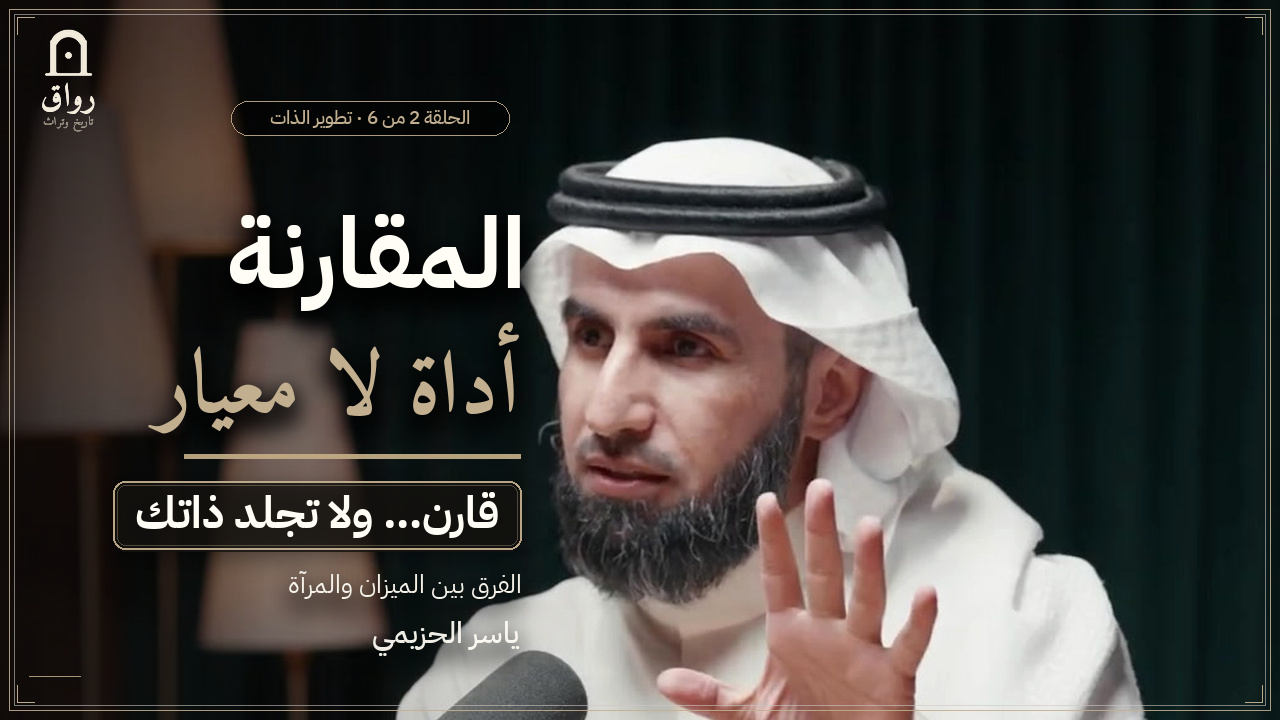
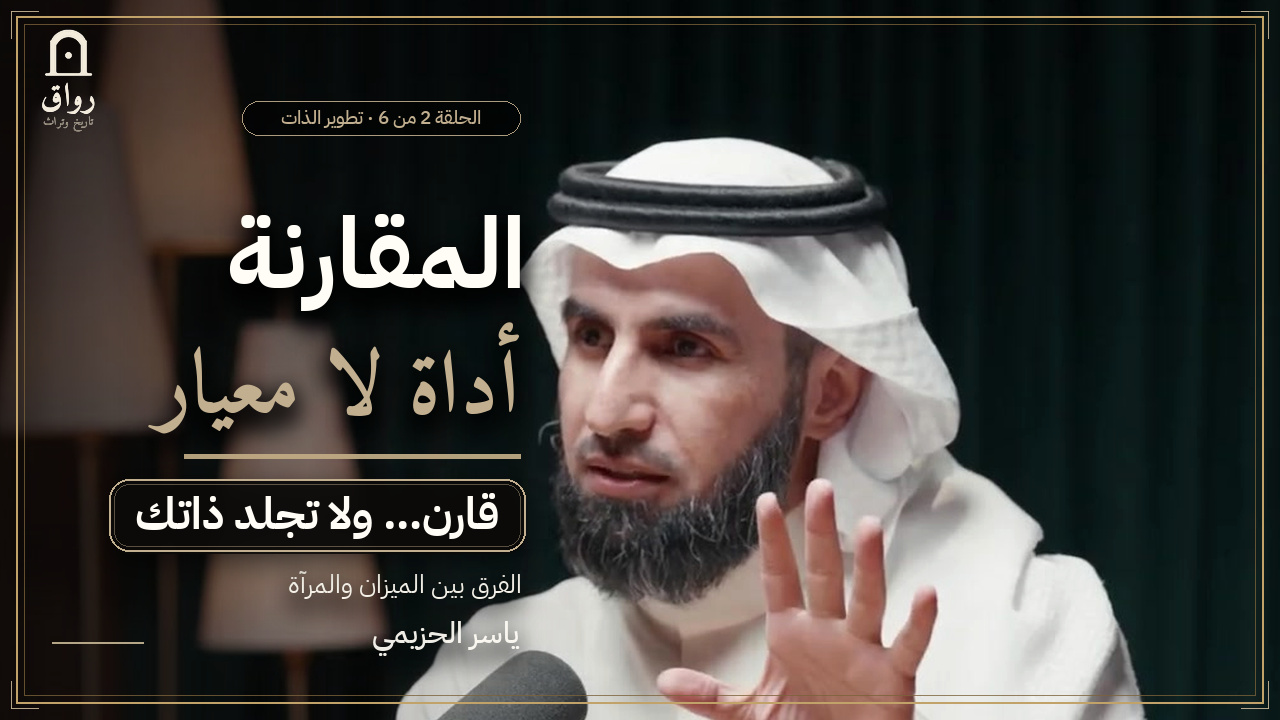
feat(frame): adopt the approved classic frame verbatim + signature rule; 3D moved to the text badge (5 layers); numbering pill aligned to text column; v2 review sheet

Changed region(s): [[0.0, 0.0, 1.0, 1.0], [0.0625, 0.6417, 0.4062, 0.7944], [0.2188, 0.1528, 0.375, 0.1833]]

diff --git a/scripts/publish/cover_system.py b/scripts/publish/cover_system.py
@@ -268,44 +268,102 @@ def series_badge(im: Image.Image, text: str, *, corner: str = "tr",
     return box
 
 
+# ---------------------------------------------------------------- الإطار القديم (المعتمد)
+# قياسات مأخوذة بالبكسل من الغلاف القديم المعتمد (1280×720):
+#   قوس الزاوية : inset 11 · ذراع 27 · 1px · #C1B193  (خارج الإطار — هذه هي لمسة القديم)
+#   الإطار      : inset 16 · 2px  · #C1A269  (ذهبي دافئ أغمق من الشامبانيا)
+#   الشعرة      : inset 24 · 1px  · #7B623A  (ذهبي باهت، وليس أبيض)
+# + خط التوقيع (الإضافة الوحيدة المطلوبة)
+CLASSIC = {
+    "bracket_inset": 11, "bracket_arm": 27, "bracket_w": 1,
+    "gold_inset": 16, "gold_w": 2, "gold": (0xC1, 0xA2, 0x69),
+    "hair_inset": 24, "hair_w": 1, "hair": (0x7B, 0x62, 0x3A),
+    "bracket": (0xC1, 0xB1, 0x93),
+    "sig_x": 52, "sig_len": 91, "sig_from_bottom": 78, "sig_w": 2,
+    "sig": (0xBF, 0xAF, 0x8F),
+}
+
+
+def frame_classic(im: Image.Image, *, signature: bool = True,
+                  scale: float | None = None) -> Image.Image:
+    """الإطار القديم المعتمد حرفيًا + خط التوقيع. لا bevel، لا أقواس داخلية."""
+    W, H = im.size
+    k = scale if scale is not None else min(W, H) / 720
+    q = lambda v: max(1, int(round(v * k)))  # noqa: E731
+    c = CLASSIC
+    d = ImageDraw.Draw(im, "RGBA")
+
+    def rect(inset, width, colour, alpha=255):
+        d.rectangle([inset, inset, W - 1 - inset, H - 1 - inset],
+                    outline=colour + (alpha,), width=width)
+
+    # 1) أقواس الزوايا — رفيعة وخارج الإطار (سمة الإطار القديم)
+    bi, arm, bw = q(c["bracket_inset"]), q(c["bracket_arm"]), c["bracket_w"]
+    for (cx, cy, sx, sy) in ((bi, bi, 1, 1), (W - 1 - bi, bi, -1, 1),
+                             (bi, H - 1 - bi, 1, -1), (W - 1 - bi, H - 1 - bi, -1, -1)):
+        d.line([(cx, cy), (cx + sx * arm, cy)], fill=c["bracket"] + (235,), width=bw)
+        d.line([(cx, cy), (cx, cy + sy * arm)], fill=c["bracket"] + (235,), width=bw)
+
+    # 2) الإطار الذهبي الدافئ
+    rect(q(c["gold_inset"]), c["gold_w"], c["gold"], 255)
+
+    # 3) الشعرة الذهبية الباهتة
+    rect(q(c["hair_inset"]), c["hair_w"], c["hair"], 200)
+
+    # 4) خط التوقيع — أسفل-يسار فقط
+    if signature:
+        sx, sy = q(c["sig_x"]), H - q(c["sig_from_bottom"])
+        d.line([(sx, sy), (sx + q(c["sig_len"]), sy)],
+               fill=c["sig"] + (240,), width=c["sig_w"])
+    return im
+
+
 # ---------------------------------------------------------------- الشارة 3D
 def badge3d(im: Image.Image, text: str, centre: tuple[int, int], *,
-            px: int | None = None, pad_x: int = 22, pad_y: int = 12,
-            radius: int = 12) -> tuple[int, int, int, int]:
-    """شارة مستطيلة «ثلاثية الأبعاد»: قاعدة داكنة مُزاحة + إطار ذهبي + ظل ناعم.
+            px: int | None = None, pad_x: int = 26, pad_y: int = 14,
+            radius: int | None = None) -> tuple[int, int, int, int]:
+    """شارة النص الثلاثية الأبعاد — «المستوى الثالث» في سلّم الطباعة.
 
-    الظل على طبقة منفصلة ⇒ لا يلمس الوجه. تُعيد الـbox للاستخدام كمرجع.
+    طبقاتها (من أسفل لأعلى):
+      1) ظل ناعم واسع خارجها        → يفصلها عن الصورة
+      2) قاعدة داكنة مُزاحة 2px      → سُمك مرئي
+      3) حدّ ذهبي خارجي 2px
+      4) حدّ ذهبي داخلي 1px @+5px    → «الذهبي ظاهر فوق وتحت»
+      5) النص الأبيض
+    الزوايا دائرية بنسبة ~45% من الارتفاع (لا حادّة).
     """
     px = px or LADDER.badge
     fnt = font("sans_b", px)
-    s = G.ar(text)
-    tw = G.text_w(fnt, s)          # القياس على النص المُشكَّل — وإلا كانت الشارة أوسع
-    th = px
-    w, h = tw + pad_x * 2, th + pad_y * 2
+    s_txt = G.ar(text)
+    tw = G.text_w(fnt, s_txt)
+    h = px + pad_y * 2
+    w = tw + pad_x * 2
+    r = radius if radius is not None else max(10, int(h * 0.28))
     cx, cy = centre
     box = (cx - w // 2, cy - h // 2, cx + w // 2, cy + h // 2)
 
-    # ظل ناعم
-    sh = Image.new("RGBA", im.size, (0, 0, 0, 0))
+    # 1) ظل ناعم واسع — يُركّب كطبقة قناع (يعمل مع RGB و RGBA)
+    sh = Image.new("L", im.size, 0)
     ImageDraw.Draw(sh).rounded_rectangle(
-        [box[0], box[1] + 6, box[2], box[3] + 6], radius=radius,
-        fill=(0, 0, 0, 115))
-    im.alpha_composite(sh.filter(ImageFilter.GaussianBlur(12))) if im.mode == "RGBA" \
-        else im.paste(Image.new("RGB", im.size, (0, 0, 0)), (0, 0),
-                      sh.filter(ImageFilter.GaussianBlur(12)).split()[-1])
+        [box[0] + 1, box[1] + 8, box[2] + 1, box[3] + 9], radius=r, fill=150)
+    sh = sh.filter(ImageFilter.GaussianBlur(14))
+    im.paste(Image.new("RGB", im.size, (0, 0, 0)), (0, 0), sh)
 
+    # 2) القاعدة الداكنة مُزاحة للأسفل = سُمك 2px
     d = ImageDraw.Draw(im, "RGBA")
-    # طبقة القاعدة (أسود مُزاح 2.5px للأسفل)
     d.rounded_rectangle([box[0], box[1] + 2, box[2], box[3] + 2],
-                        radius=radius, fill=COLORS["ink"] + (205,))
-    # الوجه الذهبي فوقها
-    d.rounded_rectangle(box, radius=radius, outline=COLORS["champagne"] + (240,),
-                        width=2)
-    d.rounded_rectangle([box[0] + 4, box[1] + 4, box[2] - 4, box[3] - 4],
-                        radius=max(2, radius - 4), outline=COLORS["champagne"] + (90,),
-                        width=1)
-    # النص — يُرفع قليلًا حتى لا تلمس النقاط (ي) الحدّ السفلي
-    d.text((cx, cy - int(px * 0.06)), s, font=fnt,
+                        radius=r, fill=(10, 9, 8, 215))
+    # 3) الوجه الداخلي
+    d.rounded_rectangle(box, radius=r, fill=(12, 11, 9, 140))
+    # 4) الحدّ الذهبي الخارجي
+    d.rounded_rectangle(box, radius=r, outline=COLORS["champagne"] + (255,), width=2)
+    # 5) الحدّ الذهبي الداخلي (يظهر فوق وتحت)
+    inset = 5
+    d.rounded_rectangle([box[0] + inset, box[1] + inset, box[2] - inset, box[3] - inset],
+                        radius=max(2, r - inset),
+                        outline=COLORS["champagne"] + (110,), width=1)
+    # 6) النص — يُرفع 2% لأن النقاط العربية تنزل تحت خط الأساس
+    d.text((cx, cy - int(px * 0.03)), s_txt, font=fnt,
            fill=COLORS["white"] + (255,), anchor="mm")
     return box
 
@@ -365,12 +423,18 @@ def lockup(im: Image.Image, width: int = 92, xy: tuple[int, int] = (40, 26)) -> 
 
 
 def pill(im: Image.Image, text: str, centre: tuple[int, int], px: int = 20,
-         pad_x: int = 16, pad_y: int = 8) -> tuple[int, int, int, int]:
-    """كبسولة رقيقة (الشارة التصنيفية) — إطار شامبانيا + نص شامبانيا، بلا تعبئة."""
+         pad_x: int = 16, pad_y: int = 8, right: int | None = None
+         ) -> tuple[int, int, int, int]:
+    """كبسولة رقيقة (الشارة التصنيفية) — إطار شامبانيا + نص شامبانيا، بلا تعبئة.
+
+    right= ⇒ تُحاذى حافّتها اليمنى على هذا الإحداثي (يمنع خروجها عن عمود النص).
+    """
     fnt = font("sans_m", px)
     tw = G.text_w(fnt, text)
     w, h = tw + pad_x * 2, px + pad_y * 2
     cx, cy = centre
+    if right is not None:
+        cx = right - w // 2
     box = (cx - w // 2, cy - h // 2, cx + w // 2, cy + h // 2)
     d = ImageDraw.Draw(im, "RGBA")
     d.rounded_rectangle(box, radius=h // 2, fill=(0, 0, 0, 120),

diff --git a/scripts/publish/review_v2.py b/scripts/publish/review_v2.py
@@ -1,0 +1,127 @@
+"""ورقة مراجعة v2 — إطار القديم مع خط التوقيع + شارة النص 4× + خيارا الترقيم.
+
+    /tmp/venv/bin/python scripts/publish/review_v2.py
+الناتج: outputs/FRAME_TEST/REVIEW-v2-frame-textbadge-numbering.png
+"""
+from __future__ import annotations
+
+import sys
+from pathlib import Path
+
+sys.path.insert(0, str(Path(__file__).resolve().parent))
+
+from PIL import Image, ImageDraw
+
+import cover_system as CS
+import ep02_cover as EP
+
+REPO = Path(__file__).resolve().parents[2]
+OUT = REPO / "outputs" / "FRAME_TEST"
+OLD = REPO / "outputs" / "SERIES_RIWAQ" / "covers_v2" / "02" / "THUMB_A_1280x720.jpg"
+NEW = next((REPO / "outputs" / "PUBLISH_PACK_EP02_COVERS").glob("02-CVR-H-A-*.jpg"))
+
+BG = (16, 15, 14)
+INK = (235, 224, 202)
+SUB = (146, 134, 114)
+PAD = 26
+
+
+def crop(im: Image.Image, box, zoom: int = 4) -> Image.Image:
+    c = im.crop(box)
+    return c.resize((c.width * zoom, c.height * zoom), Image.NEAREST)
+
+
+def ar(d, xy, text, fnt, fill=SUB, anchor="la"):
+    d.text(xy, CS.G.ar(text), font=fnt, fill=fill, anchor=anchor)
+
+
+def main() -> None:
+    OUT.mkdir(parents=True, exist_ok=True)
+    old = Image.open(OLD).convert("RGB")
+    new = Image.open(NEW).convert("RGB")
+    corner_opt = new.copy()
+    CS.series_badge(corner_opt, "2 من 6", corner="tr", px=18)
+
+    f_h = CS.font("sans_b", 24)
+    f_l = CS.font("sans_m", 17)
+
+    TL = (0, 0, 118, 118)
+    other = {"أعلى-يمين": (1162, 0, 1280, 118),
+             "أسفل-يسار": (0, 602, 118, 720),
+             "أسفل-يمين": (1162, 602, 1280, 720)}
+
+    z_old = crop(old, TL)
+    z_new = crop(new, TL)
+    small = {k: crop(new, b).resize((z_new.width // 2, z_new.height // 2), Image.LANCZOS)
+             for k, b in other.items()}
+
+    # ---- صف 1: زاوية أعلى-يسار (قديم/جديد) + الزوايا الثلاثة
+    y1 = PAD
+    hdr1_h = 34
+    row1_h = hdr1_h + z_new.height + 26
+    x_old, x_new = PAD, PAD + z_new.width + PAD
+    x_small = x_new + z_new.width + PAD
+    sw = z_new.width // 2
+
+    # ---- صف 2: الشارة
+    badge = crop(new, (92, 444, 566, 578), 4)
+    notes = ["ظل ناعم واسع يفصلها عن الصورة",
+             "قاعدة داكنة مُزاحة 2px = سُّمك مرئي",
+             "حدّ ذهبي خارجي 2px",
+             "حدّ ذهبي داخلي 1px — يظهر فوق وتحت",
+             "زوايا دائرية، ليست حادّة"]
+    hdr2_h = 34
+    row2_h = hdr2_h + badge.height + 16 + len(notes) * 26
+
+    # ---- صف 3: الترقيم
+    opt_a = crop(new, (292, 92, 540, 146), 4)          # كبسولة أعلى الكتلة
+    opt_b = crop(corner_opt, (1140, 92, 1272, 146), 4)  # شارة زاوية الإطار
+    hdr3_h = 34
+    row3_h = hdr3_h + opt_a.height + 30
+
+    notes_w = max(CS.G.text_w(f_l, CS.G.ar("•  " + n)) for n in notes)
+    W = max(x_small + 3 * (sw + PAD) + PAD,
+            PAD + badge.width + PAD + notes_w + PAD,
+            PAD + opt_a.width + PAD + opt_b.width + PAD) + PAD
+    H = PAD + row1_h + PAD + row2_h + PAD + row3_h + PAD
+    canvas = Image.new("RGB", (W, H), BG)
+    d = ImageDraw.Draw(canvas)
+
+    # ===== صف 1
+    y = y1
+    ar(d, (PAD, y), "١) الإطار: القديم (يسار) مقابل المعتمد الجديد (يمين) — زاوية أعلى-يسار، تكبير ٤×", f_h, INK)
+    y += hdr1_h
+    canvas.paste(z_old, (x_old, y))
+    canvas.paste(z_new, (x_new, y))
+    ar(d, (x_old, y + z_new.height + 5), "القديم", f_l)
+    ar(d, (x_new, y + z_new.height + 5), "الجديد = القديم + خط التوقيع", f_l)
+    for i, (name, img) in enumerate(small.items()):
+        sx = x_small + i * (sw + PAD)
+        canvas.paste(img, (sx, y))
+        ar(d, (sx, y + img.height + 4), name, f_l)
+
+    # ===== صف 2
+    y = PAD + row1_h + PAD
+    ar(d, (PAD, y), "٢) إطار النص (المستوى الثالث) — طبقات العمق — تكبير ٤×", f_h, INK)
+    y += hdr2_h
+    canvas.paste(badge, (PAD, y))
+    for i, n in enumerate(notes):
+        ar(d, (PAD + badge.width + PAD, y + 10 + i * 26), "•  " + n, f_l)
+
+    # ===== صف 3
+    y = PAD + row1_h + PAD + row2_h + PAD
+    ar(d, (PAD, y), "٣) الترقيم — أي الخيارين؟ (تكبير ٤×)", f_h, INK)
+    y += hdr3_h
+    canvas.paste(opt_a, (PAD, y))
+    ar(d, (PAD, y + opt_a.height + 6), "أ) كبسولة أعلى الكتلة النصية", f_l)
+    xb = PAD + opt_a.width + PAD
+    canvas.paste(opt_b, (xb, y))
+    ar(d, (xb, y + opt_b.height + 6), "ب) شارة صغيرة داخل زاوية الإطار", f_l)
+
+    out = OUT / "REVIEW-v2-frame-textbadge-numbering.png"
+    canvas.save(out)
+    print("out:", out, canvas.size)
+
+
+if __name__ == "__main__":
+    main()

diff --git a/scripts/publish/ep02_cover.py b/scripts/publish/ep02_cover.py
@@ -97,9 +97,9 @@ def build(im, pill_txt, h1, h2, badge, bridge, name, rule_len=336):
     CS.rule(im, (X_RIGHT, rule_y), length=min(rule_len, MAX_W))
     CS.badge3d(im, badge, (X_RIGHT - bd_w // 2,
                            rule_y + CS.LADDER.rule_h + g3 + bd_h // 2), px=f_bd.size)
-    CS.pill(im, pill_txt, (X_RIGHT - 150, 118), px=19)
+    CS.pill(im, pill_txt, (0, 118), px=19, right=X_RIGHT)
     CS.lockup(im, 92, (40, 26))
-    CS.frame3(im)
+    CS.frame_classic(im)      # الإطار القديم المعتمد + خط التوقيع
     return im
 
 

diff --git a/docs/COVER_SYSTEM.md b/docs/COVER_SYSTEM.md
@@ -27,6 +27,9 @@ vidIQ قال ثلاث ملاحظات على غلافنا القديم:
 | «نصف/نصف نظيف» | المقارنة أسرع طريقة لإيصال **فكرة فرق** | الـSplit **بديل** للبورتريه، **لا إضافة** عليه. لا بورتريه + Split في نفس الغلاف |
 | «Thumbnail 76» + «Package 6» | الغلاف كان **جيدًا**؛ الانهيار في الوسوم/الوصف | لا تُصلح الغلاف بسبب رقم Package. أصلح الوسوم |
 
+> **تصحيح جوهري (24 أكتوبر):** «التأثير ثلاثي الأبعاد» الذي طُلب **لا يخصّ إطار الغلاف** بل **إطار النص**
+> في المستوى الثالث (الشارة). إطار الغلاف = القديم + خط التوقيع، بلا أي عمق. الـ3D يعيش في `badge3d()` فقط.
+
 > **قاعدة ذهبية رقم 1 — ميزانية العناصر:** الغلاف يحتمل **رسالة واحدة**. كل عنصر إضافي يقتطع من وضوح العنصر الأول. لو أضفت شيئًا، احذف شيئًا.
 >
 > **قاعدة ذهبية رقم 2 — لا تُضبّب البطل أبدًا.** الضباب والظل على **الخلفية** فقط، وبقناع يحمي مستطيل الوجه. البطل يُعالَج بالتباين والتعريض، لا بالغموض.
@@ -35,18 +38,20 @@ vidIQ قال ثلاث ملاحظات على غلافنا القديم:
 
 ## 1⃣ تشريح الغلاف المرجعي (قياسات حقيقية على 1280×720)
 
-### الإطار — ثلاث طبقات
+### الإطار — **القديم المعتمد** (لا يُغيَّر)
 
-| الطبقة | الهندسة (px) | اللون المقيس | الوظيفة |
+> قرار صاحب القناة (24 أكتوبر): «التصميم القديم بالكامل للإطار مع إضافة خط التوقيع فقط».
+> ما يلي **قياسات بالبكسل** من الغلاف القديم المعتمد، وهو المرجع الملزم. `cover_system.frame_classic()`.
+
+| العنصر | الهندسة | اللون | الوظيفة |
 |---|---|---|---|
-| **1. الإطار الخارجي** | `inset 16` · عرض **2px** | `#C2AF8F` (ذهبي شامبانيا) | «الحاوية». هو **الخط الوحيد الذي ينجو** عند تصغير الغلاف إلى 168px في خلاصة الجوال (2px ← 0.26px) |
-| **2. الشعرة البيضاء** | `inset 24` · عرض **1px** | `#CBC7C6` (أبيض دافئ، وضوحه أقل) | **الفاصل الهوائي**. وظيفته نسيج لا إشارة: يُقرأ عند الحجم الكامل كخط مزدوج فاخر، ويذوب تمامًا عند التصغير. عمدًا **أضعف** من الطبقة الأولى |
-| **3. أقواس الزوايا** | `inset 30` · ذراع **30px** · عرض **2px** | `#C0AD8C` | «التركيز». **زوايا فقط، لا صندوق كامل** — يؤطر دون أن يقفص، ويترك منتصف الحواف فارغًا فلا يبدو كتف البطل مقطوعًا |
+| **أقواس الزوايا** (خارج الإطار) | `inset 11` · ذراع **27px** · **1px** | `#C1B193` | سمة الإطار القديم: قوس **رفيع خارج** الإطار — يعطي سماكة بصرية بلا ثقل |
+| **الإطار الذهبي** | `inset 16` · **2px** | `#C1A269` | الخط الوحيد الذي ينجو عند 1280→168px |
+| **الشعرة الداخلية** | `inset 24` · **1px** | `#7B623A` | نسيج: ذهبي باهت أغمق، يذوب عند التصغير |
+| **خط التوقيع** | `x 52→143` · `y = H−78` · **2px** | `#BFAF8F` | **الإضافة الوحيدة**. يكسر التماثل ويُكمل خريطة Z |
 
-**لماذا ثلاث طبقات تعمل؟** التسلسل **قوي ← ضعيف ← قوي**:
-- يحاكي «matte» اللوحات المؤطّرة والشارات والشهادات ⇒ إحساس بالقيمة والثمن.
-- **العزل = الحِدّة المُدركة.** القوس الثالث يبدو **الأوضح** مع أنه بنفس سُمك الأول، لأن حوله هواءً لا خطًا موازيًا. الذهن يقرأ الفراغ كحِدّة.
-- **الانقطاع** (إطار كامل ← إطار كامل ← زوايا مكسورة) يجذب العين إلى الزوايا، وهي طبيعيًا **نقطة دخول** العين إلى المستطيل.
+**ممنوع:** bevel، توهّج، ظل على الإطار، أو تغيير هذه الأرقام.
+السبب: الإطار القديم **يعمل**. أي «تحسين» عليه سبقًا أضعفه (راجع درس ٠ أدناه).
 
 ### ⚠ درس «المعاينة الكبيرة» (من لقطة vidIQ)
 لمّا عرضت الأداة الغلاف في معاينة كبيرة، ظهر الإطار **مقصوصًا عند الزوايا** ومربّعاتها الحمراء تحدّد ذلك بالضبط. السبب: يوتيوب يعرض الغلاف **بزوايا مستديرة ويقصّ ~2–3%** من الحواف في بعض الأسطح (البحث، الشاشة الرئيسية).
@@ -123,7 +128,8 @@ vidIQ قال ثلاث ملاحظات على غلافنا القديم:
 2. **عمود النص:** عرضه **38–41%** من الكادر، حافّته اليمنى عند `x ≈ 523` (في مساحة 1280). النص **لا يعبر خط عين البطل** أبدًا.
 3. **حجب الخلفية:** تعريض اتجاهي من الجانب **المعاكس** للنص، وتشبّع ‑25% للخلفية فقط — بقناع يحمي مستطيل الوجه. **الحد الأقصى: طبقة تعتيم واحدة.**
 4. **المسطرة أقصر من الكلمتين** (80–85% من عرض السطر الأعلى) — تقصيرها يخلق «توترًا» يُكمل الحركة نحو الشارة.
-5. **الشارة 3D:** طبقة قاعدة داكنة مُزاحة `+2.5px` للأسفل + طبقة ذهبية فوقها + ظل ناعم `blur 12 / offset 0,6 / alpha 45%` + زوايا مستديرة `radius ≈ 12` (لا حادة).
+5. **شارة النص (الـ3D):** خمس طبقات بالترتيب — ظل ناعم واسع (`blur 14`) → قاعدة داكنة **مُزاحة 2px** للأسفل (= سُمك مرئي) → حدّ ذهبي خارجي **2px** → حدّ ذهبي داخلي **1px** عند إزاحة 5px (يظهر فوق وتحت، كما طُلب) → النص الأبيض. الزوايا دائرية `radius ≈ 0.28×h` (≈12px)، **لا حادّة**.
+
 6. **مناطق آمنة:** أعلى‑يمين 20% وأسفل‑يمين 25% **خالية من النص الحرج** (شارة المدة وشريط التقدم يغطيانها).
 7. **حدّان للخطوط:** حد أقصى **عائلتان** (Display/نسخي + Sans هندسي). ثلاث عائلات = فوضى.
 8. **الأيقونة/السهم:** مسموح **واحد** فقط، وبشرط ألا يلمس الوجه. ويُمنع إن كان التباين الطباعي يوجّه العين أصلًا.
@@ -153,19 +159,19 @@ vidIQ قال ثلاث ملاحظات على غلافنا القديم:
 
 ---
 
-## 7⃣ الخريطة البرمجية (ما يتغيّر في الكود)
+## 7⃣ الخريطة البرمجية
 
-| الحالي | الجديد |
+| الوظيفة | الاستخدام |
 |---|---|
-| `abu_simbel_pack.gold_frame()` — طبقتان | `cover_system.frame3()` — ثلاث طبقات + أقواس + خط توقيع |
-| لا يوجد سلّم طباعة موحّد | `cover_system.LADDER` + `cover_system.ladder_fonts()` |
-| ذهبي مشبع `#A98A4B` | `CHAMPAGNE #C2AF8F` |
-| `side_shade()` قد يُلقي ظلًّا على الوجه | `cover_system.shade_away_from_face(mask=face_box)` |
-| شارة بإطار بسيط | `cover_system.badge3d()` |
+| `frame_classic()` | **الإطار المعتمد** — القديم حرفيًا + خط التوقيع |
+| `badge3d()` | شارة النص بخمس طبقات (الـ3D الحقيقي) |
+| `pill()` | كبسولة الترقيم/التصنيف (مع `right=` لمنع خروجها عن العمود) |
+| `draw_ink()` + `ink_size()` | تخطيط بقياسات **الحبر المرئي** (لا تقديرات) |
+| `shade_away_from_face()` | تعريض خلفية بقناع يحمي الوجه |
+| `qc_thumb()` | اختبار الإبهام 168px |
+| `frame3()` | **مهجور** — إطار تجريبي بثلاث طبقات + bevel، لا يُستخدم |
 
-**التوكنات القابلة للاستيراد:** `scripts/publish/cover_system.py` (`TOKENS`, `COLORS`, `LADDER`) — أي سكربت غلاف جديد يستوردها ولا يعيد كتابة أرقام يدويًا.
-
-**التسمية:** أسماء الملفات **إنجليزية بالكامل** — `docs/FILE_NAMING.md` و`scripts/publish/naming.py`.
+**التسمية:** `docs/FILE_NAMING.md` + `scripts/publish/naming.py` (إنجليزي بالكامل).
 
 ---
 
